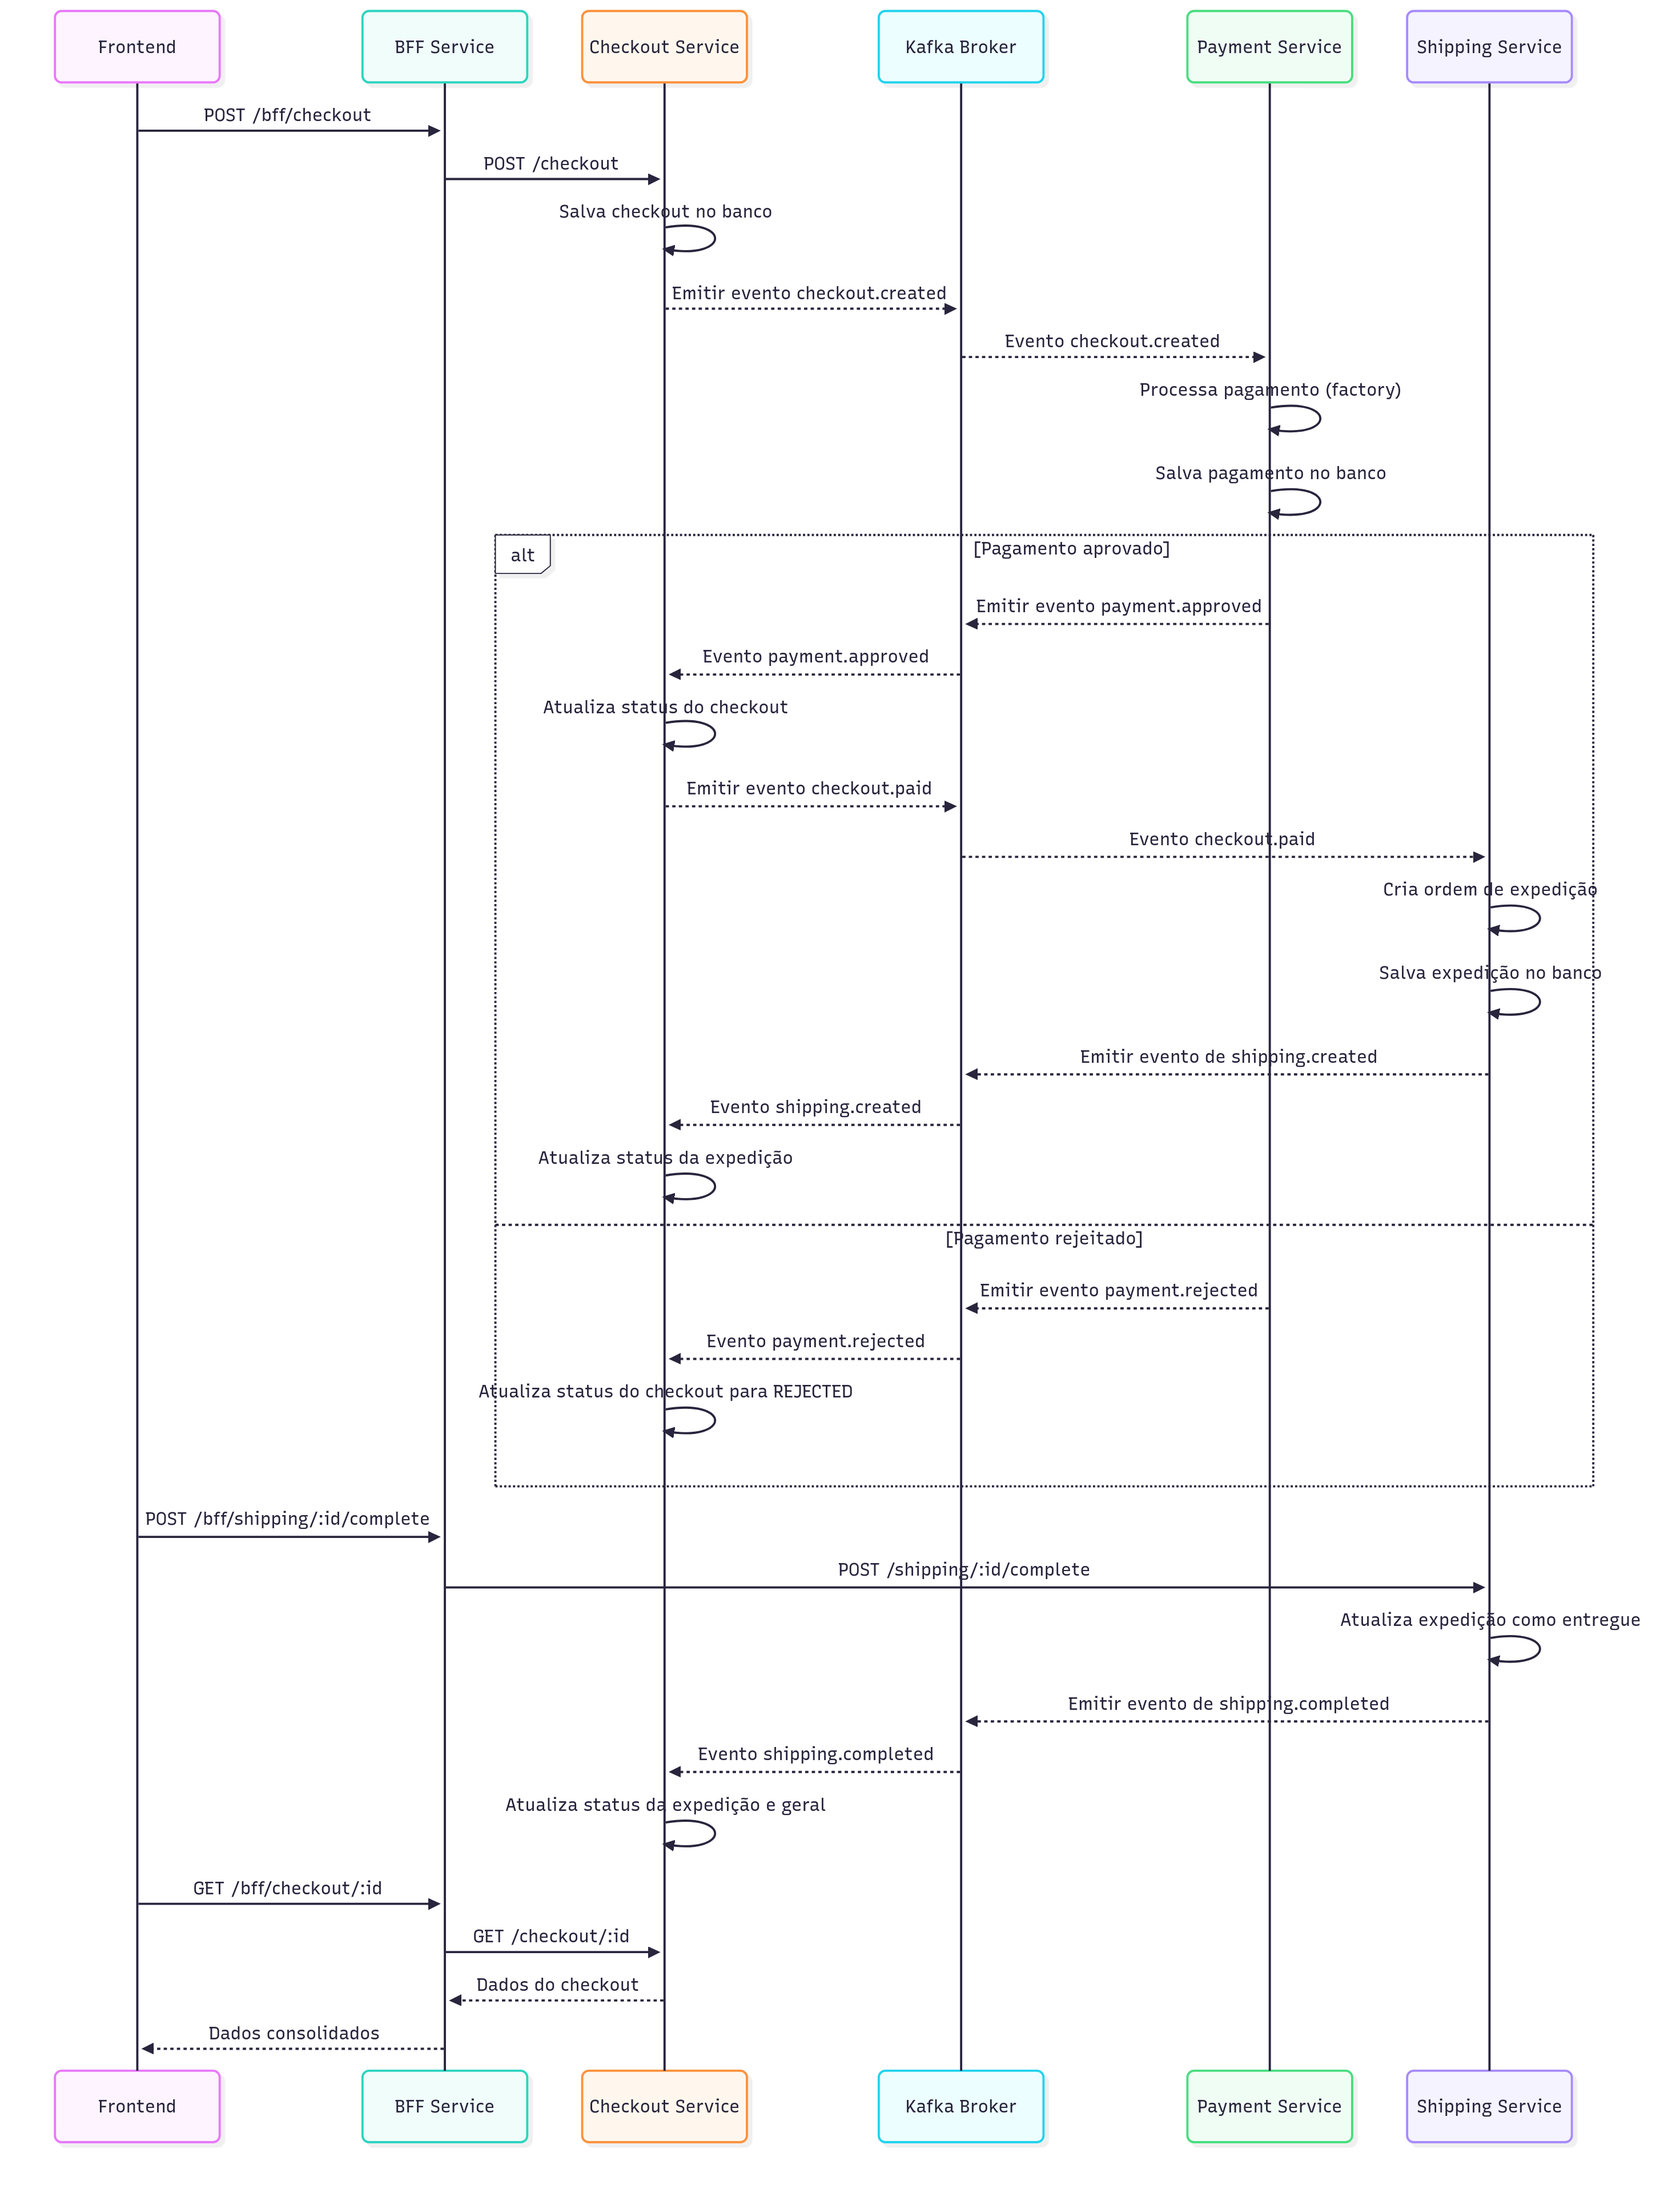
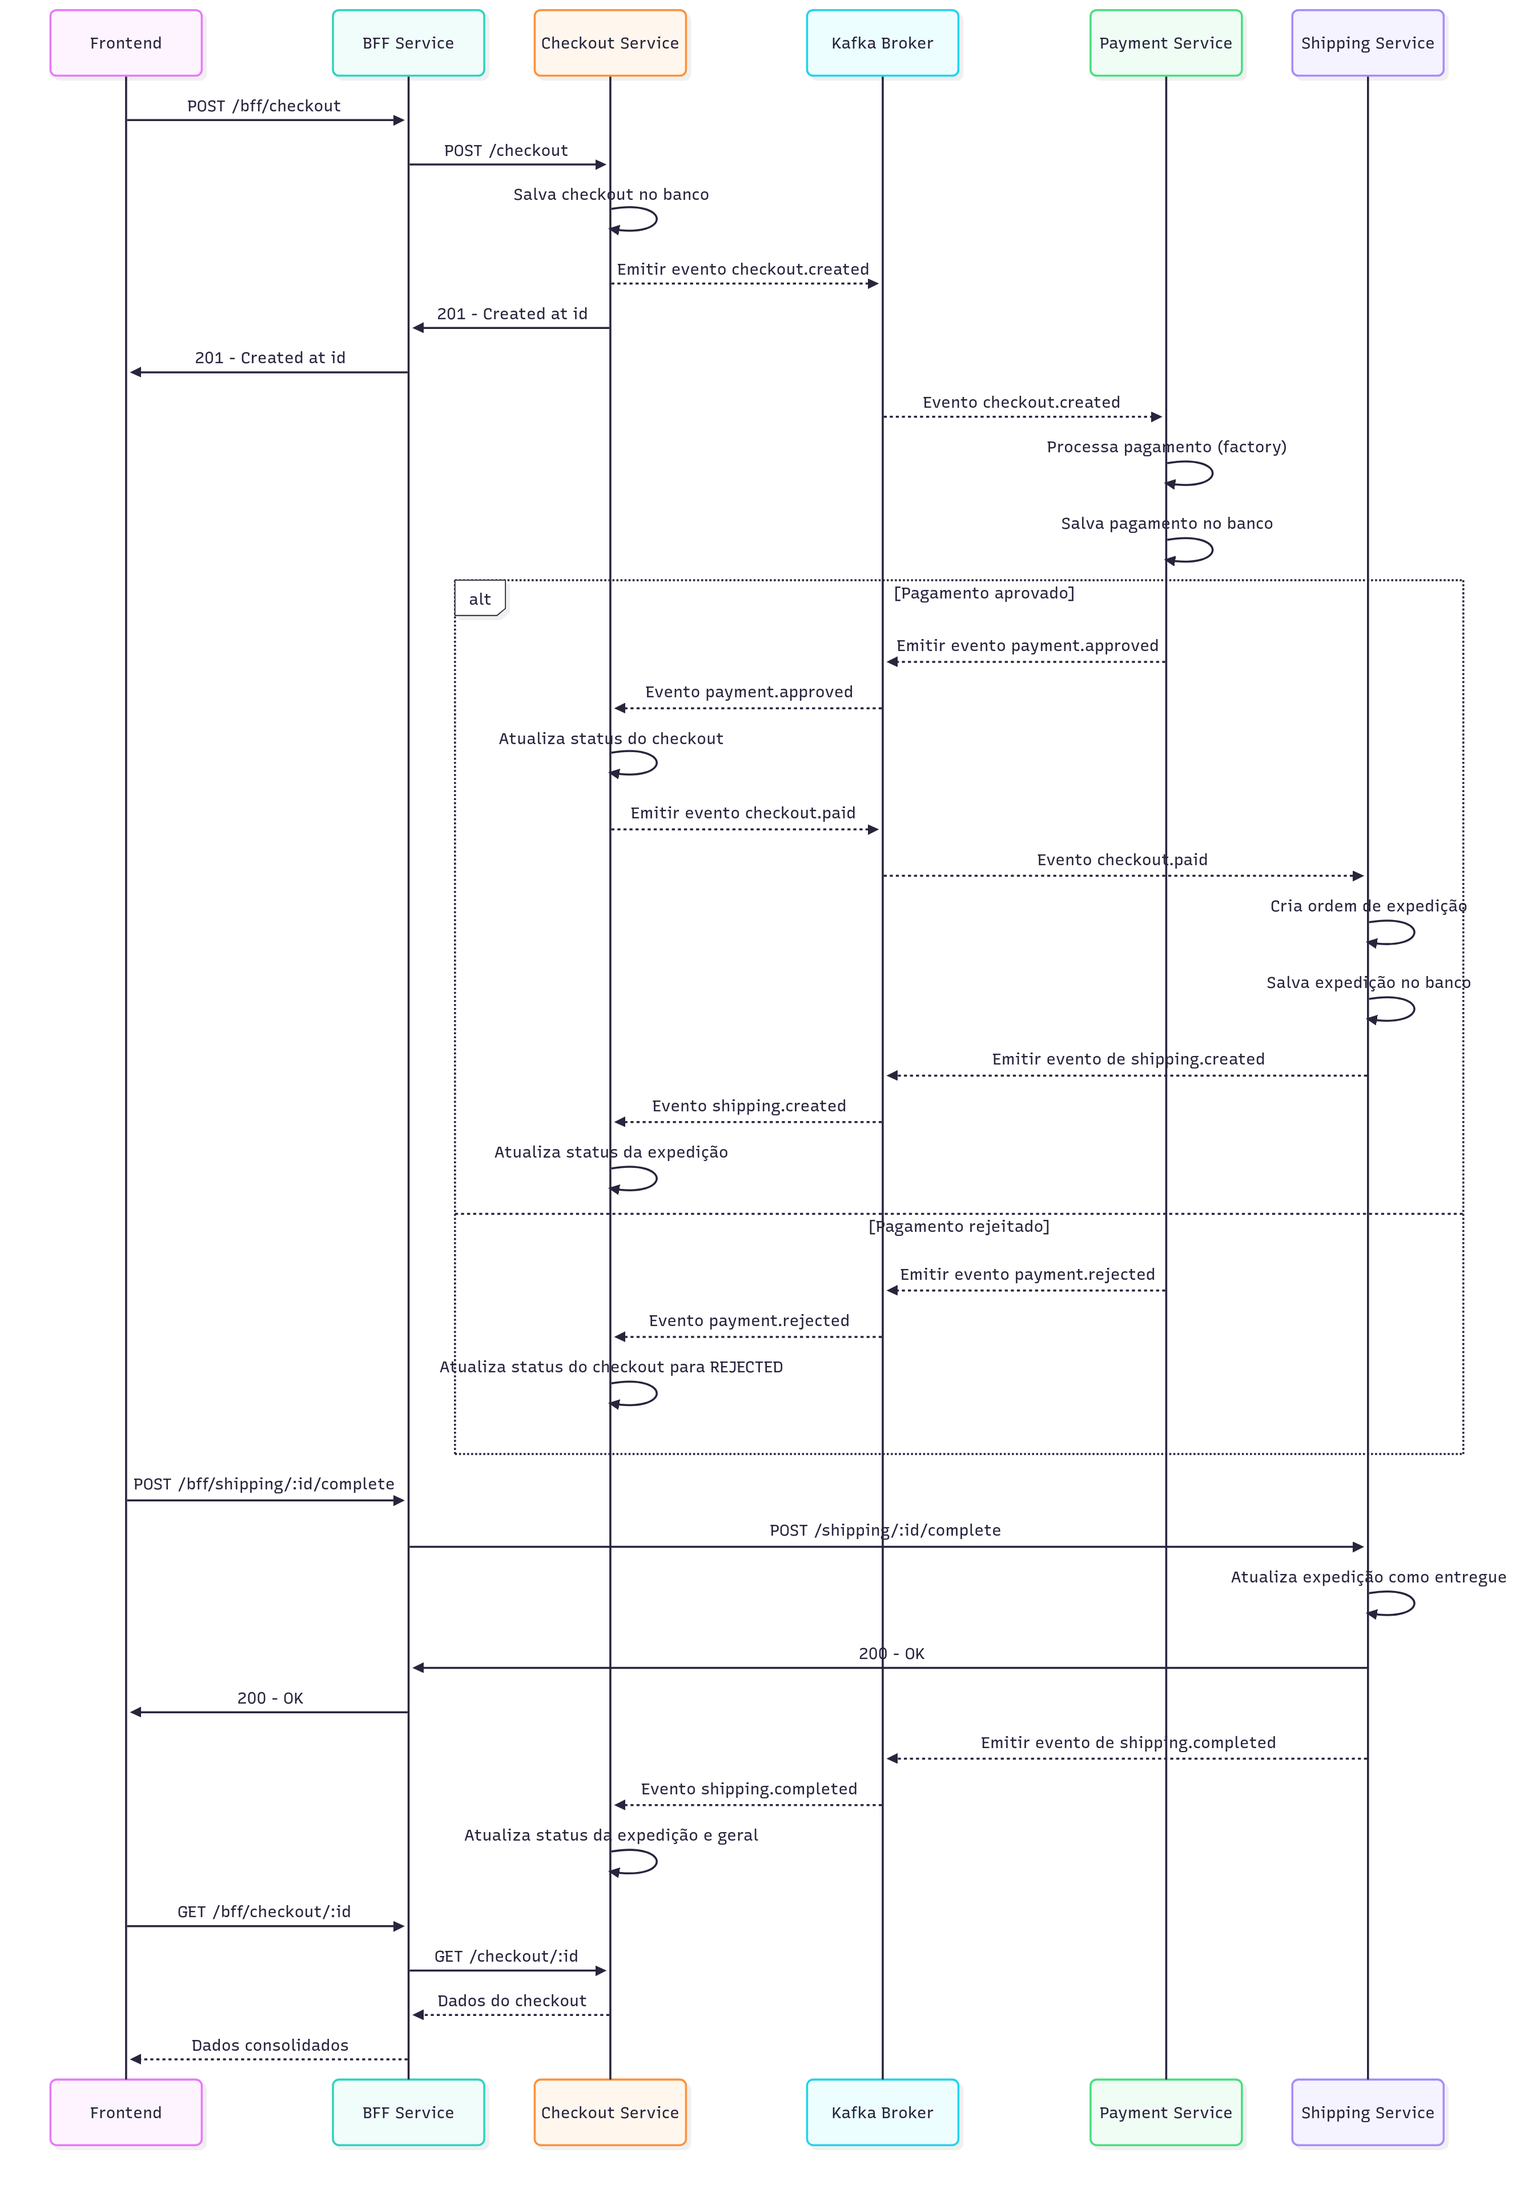
chore: melhorando retornos das funções para ficar condizente com fluxo

diff --git a/checkout-service/src/services/checkout.service.ts b/checkout-service/src/services/checkout.service.ts
@@ -14,6 +14,7 @@ import { Address } from 'src/domain/entities/address.entity';
 import { CheckoutStatus } from 'src/domain/enums/checkout-status.enum';
 import { ShippingStatus } from 'src/domain/enums/shipping-status.enum';
 import { ShippingEventDto } from 'src/domain/dtos/events/shipping-event.dto';
+import { CheckoutResponseDto } from 'src/domain/dtos/checkout-response.dto';
 
 @Injectable()
 export class CheckoutService implements OnModuleInit {
@@ -27,25 +28,47 @@ export class CheckoutService implements OnModuleInit {
     await this.kafkaClient.connect();
   }
 
-  async createCheckout(dto: CreateCheckoutDto): Promise<Checkout> {
-    const checkout = this.createCheckoutFromDto(dto);
+  async createCheckout(dto: CreateCheckoutDto): Promise<Checkout | null> {
+    try {
+      const checkout = this.createCheckoutFromDto(dto);
 
-    const saved = await this.repo.save(checkout);
+      const saved = await this.repo.save(checkout);
 
-    const message: CheckoutCreatedMessage = this.createCheckoutMessage(saved, dto);
+      const message: CheckoutCreatedMessage = this.createCheckoutMessage(saved, dto);
 
-    this.kafkaClient.emit('checkout.created', message);
+      this.kafkaClient.emit('checkout.created', message);
 
-    return saved;
+      return saved;
+    } catch (error) {
+      console.error('Error creating checkout:', error);
+      return null;
+    }
   }
 
-  async findById(id: string): Promise<Checkout> {
-    const checkout = await this.repo.findOne({
-      where: { id },
-      relations: ['items', 'address'],
-    });
-    if (!checkout) throw new NotFoundException(`Checkout ${id} não encontrado`);
-    return checkout;
+  async findById(id: string): Promise<CheckoutResponseDto> {
+    try {
+      const checkout = await this.repo.findOne({
+        where: { id },
+        relations: ['items', 'address'],
+      });
+      if (!checkout) throw new NotFoundException(`Checkout ${id} não encontrado`);
+
+      return {
+        id: checkout.id,
+        status: checkout.status,
+        total: checkout.total,
+        createdAt: checkout.createdAt,
+        closedAt: checkout.closedAt,
+        paymentStatus: checkout.paymentStatus,
+        shippingStatus: checkout.shippingStatus,
+        paymentFailureReason: checkout.paymentFailureReason,
+        shippingId: checkout.shippingId,
+        trackingCode: checkout.trackingCode,
+      };
+    } catch (error) {
+      console.error('Error finding checkout:', error);
+      throw new NotFoundException(`Checkout ${id} não encontrado`);
+    }
   }
 
   async handlePaymentRejected(event: PaymentRejectedEventDto): Promise<void> {

diff --git a/bff/src/services/bff.service.ts b/bff/src/services/bff.service.ts
@@ -3,6 +3,8 @@ import { ConfigService } from '@nestjs/config';
 import { HttpService } from '@nestjs/axios';
 import { firstValueFrom } from 'rxjs';
 import { CreateCheckoutDto } from 'src/dtos/create-checkout.dto';
+import { CreateCheckoutResponseDto } from 'src/dtos/create-checkout-response.dto';
+import { CheckoutResponseDto } from 'src/dtos/checkout-response.dto';
 
 @Injectable()
 export class BffService {
@@ -25,18 +27,32 @@ export class BffService {
         }
     }
 
-    async createCheckout(dto: CreateCheckoutDto) {
-        const { data } = await firstValueFrom(
-            this.http.post(`${this.checkoutUrl}/checkout`, dto),
-        );
-        return data;
+    async createCheckout(dto: CreateCheckoutDto): Promise<CreateCheckoutResponseDto | null> {
+        try {
+            const { data } = await firstValueFrom(
+                this.http.post(`${this.checkoutUrl}/checkout`, dto),
+            );
+            return {
+                id: data.id,
+                status: data.status,
+                total: data.total
+            };
+        } catch (error) {
+            console.error('Error creating checkout:', error)
+            return null;
+        }
     }
 
-    async getCheckout(id: string) {
-        const { data } = await firstValueFrom(
-            this.http.get(`${this.checkoutUrl}/checkout/${id}`),
-        );
-        return data;
+    async getCheckout(id: string): Promise<CheckoutResponseDto | null> {
+        try {
+            const { data } = await firstValueFrom(
+                this.http.get<CheckoutResponseDto>(`${this.checkoutUrl}/checkout/${id}`),
+            );
+            return data;
+        } catch (error) {
+            console.error('Error fetching checkout:', error);
+            return null;
+        }
     }
 
     async completeShipping(id: string): Promise<boolean> {

diff --git a/bff/src/controllers/bff.controller.ts b/bff/src/controllers/bff.controller.ts
@@ -5,7 +5,10 @@ import {
   Get,
   Param,
   HttpCode,
+  HttpException,
 } from '@nestjs/common';
+import { CheckoutResponseDto } from 'src/dtos/checkout-response.dto';
+import { CreateCheckoutResponseDto } from 'src/dtos/create-checkout-response.dto';
 import { CreateCheckoutDto } from 'src/dtos/create-checkout.dto';
 import { BffService } from 'src/services/bff.service';
 
@@ -15,9 +18,15 @@ export class BffController {
 
   @Post('checkout')
   @HttpCode(201)
-  createCheckout(@Body() dto: CreateCheckoutDto) {
-    console.log('Creating checkout with DTO:', dto);
-    return this.bff.createCheckout(dto);
+  async createCheckout(@Body() dto: CreateCheckoutDto): Promise<CreateCheckoutResponseDto> {
+    if (!dto || !dto.items || dto.items.length === 0) {
+      throw new HttpException('Invalid checkout data', 400);
+    }
+    const response = await this.bff.createCheckout(dto);
+    if (!response) {
+      throw new HttpException('Checkout creation failed', 500);
+    }
+    return response;
   }
 
   @Post('shipping/:id/complete')
@@ -28,8 +37,15 @@ export class BffController {
 
   @Get('checkout/:id')
   @HttpCode(200)
-  getCheckout(@Param('id') id: string) {
-    return this.bff.getCheckout(id);
+  async getCheckout(@Param('id') id: string): Promise<CheckoutResponseDto> {
+    if (!id) {
+      throw new HttpException('Checkout ID is required', 400);
+    }
+    let checkout = await this.bff.getCheckout(id);
+    if (!checkout) {
+      throw new HttpException(`Checkout with ID ${id} not found`, 404);
+    }
+    return checkout;
   }
 
 }

diff --git a/shipping-service/src/controllers/shipping.controller.ts b/shipping-service/src/controllers/shipping.controller.ts
@@ -1,4 +1,4 @@
-import { Controller, HttpCode, Param, Post } from '@nestjs/common';
+import { Controller, HttpCode, HttpException, Param, Post } from '@nestjs/common';
 import { ShippingService } from '../services/shipping.service';
 
 @Controller()
@@ -8,6 +8,14 @@ export class ShippingController {
     @Post('shipping/:id/complete')
     @HttpCode(200)
     async completeShipping(@Param('id') id: string) {
-        return this.shippingService.completeShipping(id);
+        if (!id) {
+            throw new HttpException('Shipping ID is required', 400);
+        }
+        const shipping = await this.shippingService.completeShipping(id);
+        if (!shipping) {
+            throw new HttpException(`Shipping with ID ${id} not found`, 404);
+        }
+        return shipping;
+
     }
 }

diff --git a/checkout-service/src/controllers/checkout.controller.ts b/checkout-service/src/controllers/checkout.controller.ts
@@ -1,4 +1,4 @@
-import { Body, Controller, Post, Get, Param } from '@nestjs/common';
+import { Body, Controller, Post, Get, Param, HttpException } from '@nestjs/common';
 import { CheckoutService } from '../services/checkout.service';
 import { CreateCheckoutDto } from '../domain/dtos/create-checkout.dto';
 
@@ -8,7 +8,14 @@ export class CheckoutController {
 
   @Post()
   async create(@Body() dto: CreateCheckoutDto) {
-    return this.service.createCheckout(dto);
+    if (!dto || !dto.items || dto.items.length === 0) {
+      throw new HttpException('Invalid checkout data', 400);
+    }
+    const response = await this.service.createCheckout(dto);
+    if (!response) {
+      throw new HttpException('Checkout creation failed', 500);
+    }
+    return response;
   }
 
   @Get(':id')

diff --git a/shipping-service/src/services/shipping.service.ts b/shipping-service/src/services/shipping.service.ts
@@ -26,7 +26,7 @@ export class ShippingService implements OnModuleInit {
         await this.emitShippingCreated(saved);
     }
 
-    async completeShipping(shippingId: string): Promise<void> {
+    async completeShipping(shippingId: string): Promise<string> {
         const shipping = await this.repo.findOneBy({ id: shippingId });
         if (!shipping) {
             throw new Error('Shipping not found');
@@ -35,6 +35,7 @@ export class ShippingService implements OnModuleInit {
         shipping.status = ShippingStatus.DELIVERED;
         await this.repo.save(shipping);
         await this.emitShippingCompleted(shipping);
+        return "Shipping completed successfully";
     }
 
     private createShippingFromCheckout(checkout: CheckoutPaidEventDto): Shipping {

diff --git a/payment-service/src/controllers/payment-event.controller.ts b/payment-service/src/controllers/payment-event.controller.ts
@@ -7,14 +7,13 @@ import { PaymentService } from 'src/services/payment.service';
 export class PaymentEventController {
   private readonly logger = new Logger(PaymentEventController.name);
 
-  constructor(private readonly paymentService: PaymentService) {}
+  constructor(private readonly paymentService: PaymentService) { }
 
   @EventPattern('checkout.created')
   async handleCheckoutCreated(
     @Payload() message: CheckoutCreatedMessageDto,
     @Ctx() context: KafkaContext,
   ) {
-    console.debug(`Received checkout.created: ${JSON.stringify(message)}`);
     await this.paymentService.processCheckoutPayment(message);
   }
 }

diff --git a/bff/src/dtos/checkout-response.dto.ts b/bff/src/dtos/checkout-response.dto.ts
@@ -1,0 +1,16 @@
+import { CheckoutStatus } from "../enums/checkout-status.enum";
+import { PaymentStatus } from "../enums/payment-status.enum";
+import { ShippingStatus } from "../enums/shipping-status.enum";
+
+export class CheckoutResponseDto {
+  id: string;
+  status: CheckoutStatus;
+  total: number;
+  createdAt: Date;
+  closedAt: Date | null;
+  paymentStatus: PaymentStatus;
+  shippingStatus: ShippingStatus;
+  paymentFailureReason?: string;
+  shippingId?: string;
+  trackingCode?: string;
+}

diff --git a/checkout-service/src/domain/dtos/checkout-response.dto.ts b/checkout-service/src/domain/dtos/checkout-response.dto.ts
@@ -1,0 +1,16 @@
+import { CheckoutStatus } from "../enums/checkout-status.enum";
+import { PaymentStatus } from "../enums/payment-status.enum";
+import { ShippingStatus } from "../enums/shipping-status.enum";
+
+export class CheckoutResponseDto {
+  id: string;
+  status: CheckoutStatus;
+  total: number;
+  createdAt: Date;
+  closedAt: Date | null;
+  paymentStatus: PaymentStatus;
+  shippingStatus: ShippingStatus;
+  paymentFailureReason?: string;
+  shippingId?: string;
+  trackingCode?: string;
+}

diff --git a/bff/src/enums/checkout-status.enum.ts b/bff/src/enums/checkout-status.enum.ts
@@ -1,0 +1,6 @@
+export enum CheckoutStatus {
+  OPEN = 'OPEN',
+  CLOSED = 'CLOSED',
+  CANCELLED = 'CANCELLED',
+  COMPLETED = 'COMPLETED',
+}

diff --git a/bff/src/enums/shipping-status.enum.ts b/bff/src/enums/shipping-status.enum.ts
@@ -1,0 +1,5 @@
+export enum ShippingStatus {
+  PENDING = 'PENDING',
+  SHIPPED = 'SHIPPED',
+  DELIVERED = 'DELIVERED'
+}

diff --git a/bff/src/enums/payment-status.enum.ts b/bff/src/enums/payment-status.enum.ts
@@ -1,0 +1,5 @@
+export enum PaymentStatus {
+  PENDING = 'PENDING',
+  APPROVED = 'APPROVED',
+  REJECTED = 'REJECTED'
+}
